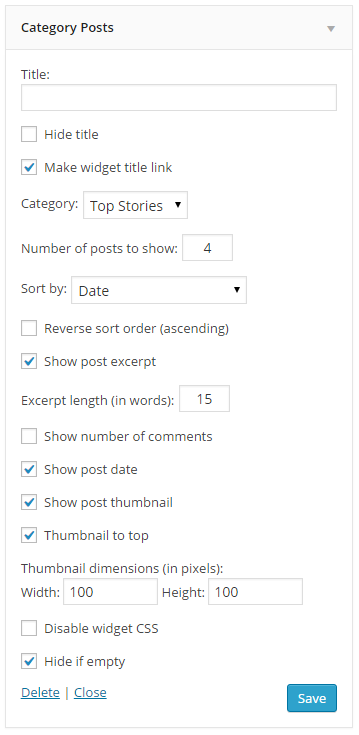
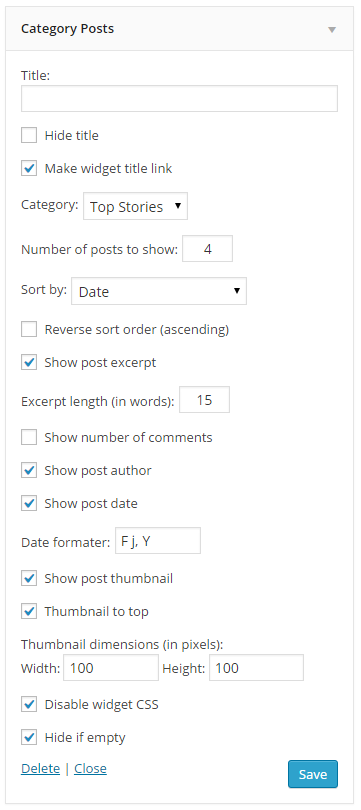
Description and screenshot

diff --git a/cat-posts.php b/cat-posts.php
@@ -326,7 +326,7 @@ class CategoryPosts extends WP_Widget {
 		</p>
 		<p>
 			<label for="<?php echo $this->get_field_id("author"); ?>">
-				<input type="checkbox" class="checkbox" id="<?php echo $this->get_field_id("date"); ?>" name="<?php echo $this->get_field_name("author"); ?>"<?php checked( (bool) $instance["author"], true ); ?> />
+				<input type="checkbox" class="checkbox" id="<?php echo $this->get_field_id("author"); ?>" name="<?php echo $this->get_field_name("author"); ?>"<?php checked( (bool) $instance["author"], true ); ?> />
 				<?php _e( 'Show post author' ); ?>
 			</label>
 		</p>
@@ -338,7 +338,7 @@ class CategoryPosts extends WP_Widget {
 		</p>
 		<p>
 			<label for="<?php echo $this->get_field_id("date_format"); ?>">
-				<?php _e( 'Date format (see <a target="_parent" href="http://php.net/manual/en/function.date.php">php manual</a>):' ); ?>
+				<?php _e( 'Date format:' ); ?>
 			</label>
 			<input class="text" id="<?php echo $this->get_field_id("date_format"); ?>" name="<?php echo $this->get_field_name("date_format"); ?>" type="text" value="<?php echo esc_attr($instance["date_format"]); ?>" size="8" />
 		</p>

diff --git a/README.md b/README.md
@@ -25,14 +25,20 @@ Category Posts Widget is a light widget designed to do one thing and do it well:
 * Option to put thumbnail on top
 * Option to disable widget CSS.
 * Set how many posts to show.
+* Option show post author.
 * Set which category the posts should come form.
 * Option to show the post excerpt and how long the excerpt should be.
 * Option to show the post date.
+* Option to format the outputted date string.
 * Option to show the comment count.
 * Option to make the widget title link to the category page.
 * Option to hide the title.
 * Option to hide widget, if category have currently no posts.
 * Multiple widgets.
+
+### Documentation ###
+
+Formatting date and time see [Formatting Date and Time] (https://codex.wordpress.org/Formatting_Date_and_Time). Defaults configured in your WordPress options.
 
 ### Contribute ###
 While using this plugin if you find any bug or any conflict, please submit an issue at 
@@ -59,6 +65,11 @@ Automatic installation is the easiest option as WordPress handles the file trans
 
 
 ## Changelog ##
+
+4.1.4
+
+* Added option show post author.
+* Added option to format the outputted date string.
 
 4.1.3
 
